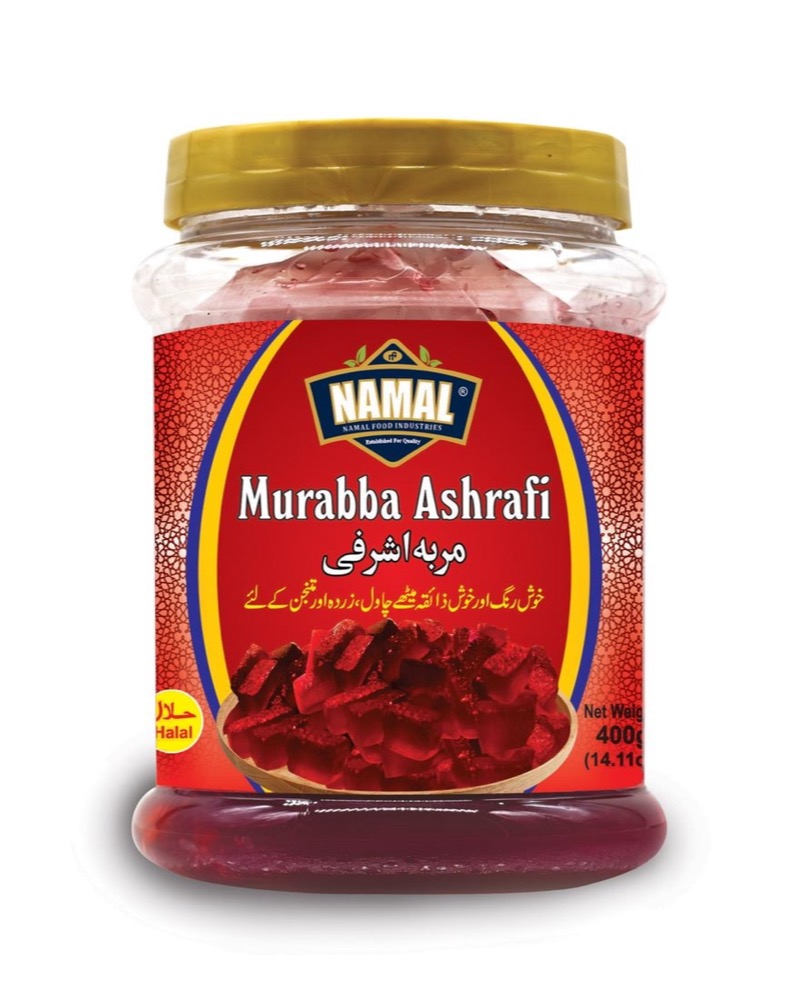
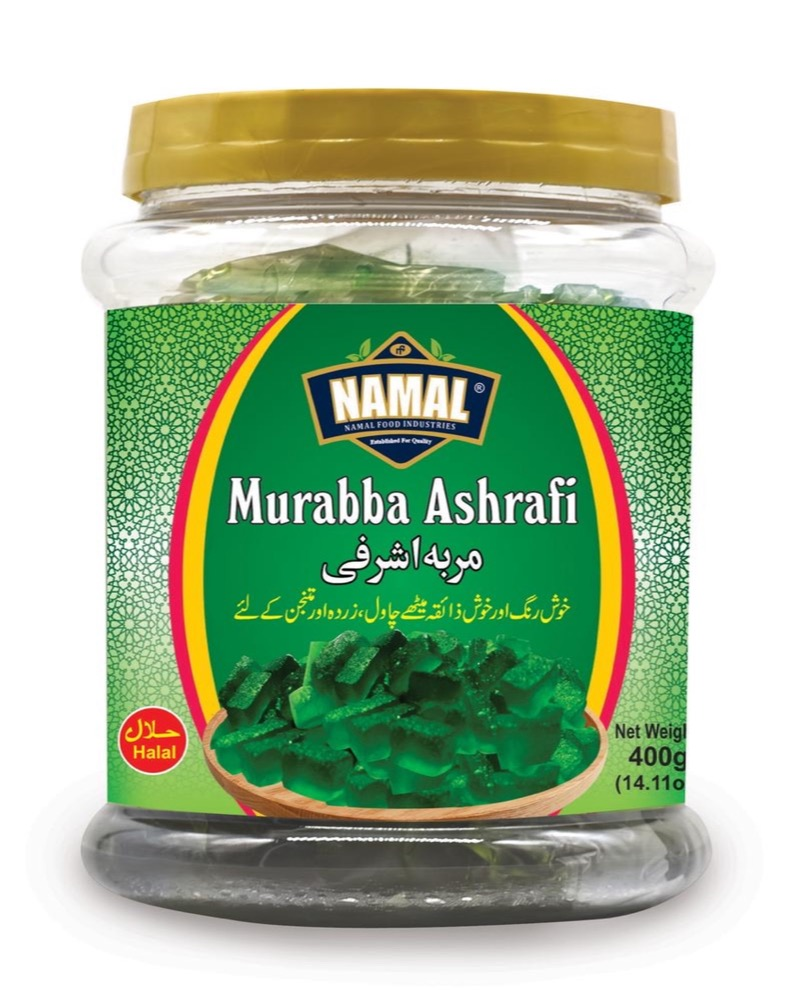
Add Black Raisin + 4 sauces; rename Dry Fig to Dry Munaka; second phone
- Bulk Dry Fruits/Nuts: rename Dry Fig (400g) to Dry Munaka (7oz/200gm,
  image unchanged); add Black Raisin (14oz/400gm)
- Sauces: add Thai Chilli, Chilli, Peri Peri, Coriander (300gm each)
- Sweets: refresh Murabba Ashrafi image
- Footer: add second contact number +92 339 4047370

diff --git a/lib/data.js b/lib/data.js
@@ -98,11 +98,22 @@ export const products = [
   },
   {
     id: 'dry-fig-400g',
-    title: 'Dry Fig (Anjeer)',
+    title: 'Dry Munaka',
     slug: 'dry-fig-400g',
     category: 'bulk-dry-fruits-nuts',
     image: '/products/bulk-dry-fruits-nuts/dry-fig-400g.png',
-    description: 'Premium dried figs (anjeer), naturally sweet and nutritious.',
+    description: 'Premium dried munaka (large raisins), naturally sweet and nutritious.',
+    weight: '7oz / 200gm',
+    origin: 'Pakistan',
+    featured: true,
+  },
+  {
+    id: 'black-raisin',
+    title: 'Black Raisin',
+    slug: 'black-raisin',
+    category: 'bulk-dry-fruits-nuts',
+    image: '/products/bulk-dry-fruits-nuts/black-raisin.png',
+    description: 'Naturally dried black raisins, soft and sweet.',
     weight: '14oz / 400gm',
     origin: 'Pakistan',
     featured: true,
@@ -456,6 +467,50 @@ export const products = [
     image: '/products/sauces/synthetic-vinegar.png',
     description: 'Clear synthetic vinegar for pickling, cooking and cleaning.',
     weight: '285ml / 10oz',
+    origin: 'Pakistan',
+    featured: false,
+  },
+  {
+    id: 'thai-chilli-sauce',
+    title: 'Thai Chilli Sauce',
+    slug: 'thai-chilli-sauce',
+    category: 'sauces',
+    image: '/products/sauces/thai-chilli-sauce.png',
+    description: 'Sweet and tangy Thai-style chilli sauce for dipping and cooking.',
+    weight: '300gm / 10.58oz',
+    origin: 'Pakistan',
+    featured: true,
+  },
+  {
+    id: 'chilli-sauce',
+    title: 'Chilli Sauce',
+    slug: 'chilli-sauce',
+    category: 'sauces',
+    image: '/products/sauces/chilli-sauce.png',
+    description: 'Classic hot chilli sauce for snacks, meals and food service.',
+    weight: '300gm / 10.58oz',
+    origin: 'Pakistan',
+    featured: true,
+  },
+  {
+    id: 'peri-peri-sauce',
+    title: 'Peri Peri Sauce',
+    slug: 'peri-peri-sauce',
+    category: 'sauces',
+    image: '/products/sauces/peri-peri-sauce.png',
+    description: 'Bold peri peri sauce with a spicy, smoky kick.',
+    weight: '300gm / 10.58oz',
+    origin: 'Pakistan',
+    featured: true,
+  },
+  {
+    id: 'coriander-sauce',
+    title: 'Coriander Sauce',
+    slug: 'coriander-sauce',
+    category: 'sauces',
+    image: '/products/sauces/coriander-sauce.png',
+    description: 'Fresh, herby coriander sauce — a zesty accompaniment.',
+    weight: '300gm / 10.58oz',
     origin: 'Pakistan',
     featured: false,
   },

diff --git a/components/Footer.js b/components/Footer.js
@@ -28,6 +28,10 @@ export default function Footer() {
               </svg>
               +92 345 221 1111
             </a>
+            <a href="tel:+923394047370"
+              className="inline-flex items-center gap-2 text-base text-white/80 hover:text-[#F5C518] transition-colors pl-6">
+              +92 339 4047370
+            </a>
           </div>
 
           {/* Social links */}
@@ -79,7 +83,8 @@ export default function Footer() {
             </div>
             <div>
               <p className="text-white/40 text-xs uppercase tracking-widest font-bold mb-1">Phone / WhatsApp</p>
-              <a href="https://wa.me/923452211111" target="_blank" rel="noopener noreferrer" className="hover:text-[#F5C518] transition-colors">+92 345 221 1111</a>
+              <a href="https://wa.me/923452211111" target="_blank" rel="noopener noreferrer" className="block hover:text-[#F5C518] transition-colors">+92 345 221 1111</a>
+              <a href="tel:+923394047370" className="block hover:text-[#F5C518] transition-colors">+92 339 4047370</a>
             </div>
             <div>
               <p className="text-white/40 text-xs uppercase tracking-widest font-bold mb-1">Services</p>
